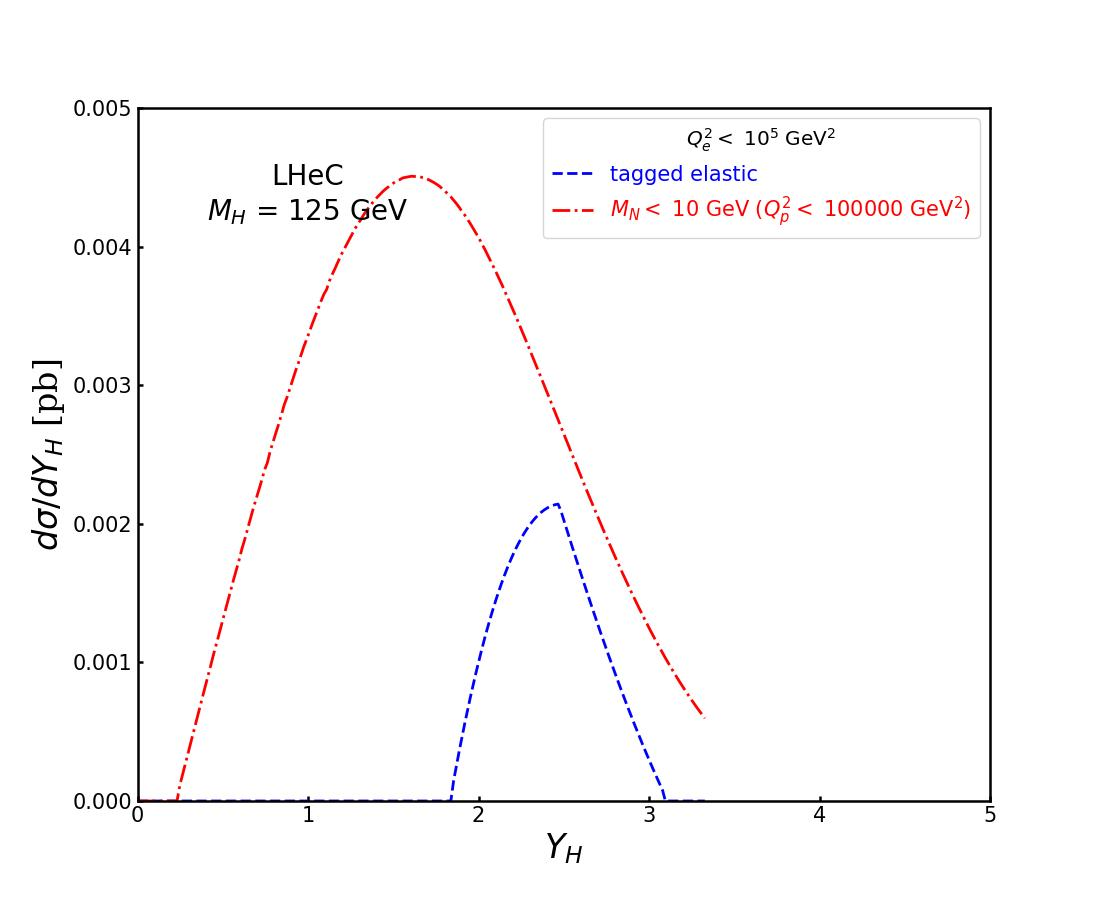
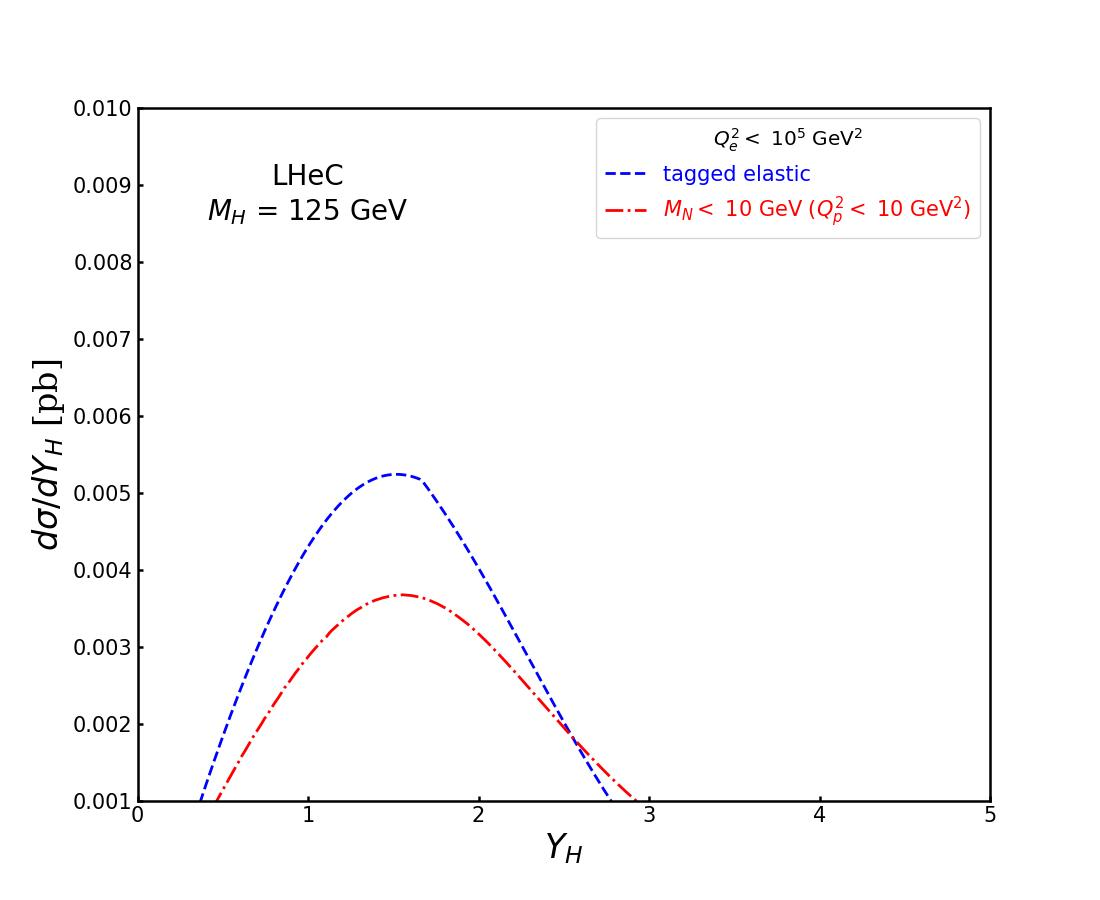
plots

diff --git a/dSigmadY_Final_Higgs_25April/dSigmadY_ep_Higgs_10_100000_100000_tagged_elastic.py b/dSigmadY_Final_Higgs_25April/dSigmadY_ep_Higgs_10_100000_100000_tagged_elastic.py
@@ -1,4 +1,4 @@
 wvalues =  (10.0, 100000.0, 100000.0, [0.0, 0.016556291390728478, 0.033112582781456956, 0.049668874172185434, 0.06622516556291391, 0.08278145695364239, 0.09933774834437087, 0.11589403973509935, 0.13245033112582782, 0.1490066225165563, 0.16556291390728478, 0.18211920529801326, 0.19867549668874174, 0.21523178807947022, 0.2317880794701987, 0.24834437086092717, 0.26490066225165565, 0.2814569536423841, 0.2980132450331126, 0.3145695364238411, 0.33112582781456956, 0.347682119205298, 0.3642384105960265, 0.380794701986755, 0.3973509933774835, 0.4139072847682119, 0.43046357615894043, 0.44701986754966894, 0.4635761589403974, 0.48013245033112584, 0.49668874172185434, 0.5132450331125828, 0.5298013245033113, 0.5463576158940397, 0.5629139072847682, 0.5794701986754968, 0.5960264900662252, 0.6125827814569537, 0.6291390728476822, 0.6456953642384107, 0.6622516556291391, 0.6788079470198676, 0.695364238410596, 0.7119205298013246, 0.728476821192053, 0.7450331125827815, 0.76158940397351, 0.7781456953642385, 0.794701986754967, 0.8112582781456954, 0.8278145695364238, 0.8443708609271524, 0.8609271523178809, 0.8774834437086093, 0.8940397350993379, 0.9105960264900663, 0.9271523178807948, 0.9437086092715232, 0.9602649006622517, 0.9768211920529802, 0.9933774834437087, 1.0099337748344372, 1.0264900662251657, 1.0430463576158941, 1.0596026490066226, 1.076158940397351, 1.0927152317880795, 1.109271523178808, 1.1258278145695364, 1.142384105960265, 1.1589403973509935, 1.175496688741722, 1.1920529801324504, 1.2086092715231789, 1.2251655629139073, 1.2417218543046358, 1.2582781456953644, 1.274834437086093, 1.2913907284768213, 1.3079470198675498, 1.3245033112582782, 1.3410596026490067, 1.3576158940397351, 1.3741721854304636, 1.390728476821192, 1.4072847682119207, 1.4238410596026492, 1.4403973509933776, 1.456953642384106, 1.4735099337748345, 1.490066225165563, 1.5066225165562914, 1.52317880794702, 1.5397350993377485, 1.556291390728477, 1.5728476821192054, 1.589403973509934, 1.6059602649006623, 1.6225165562913908, 1.6390728476821192, 1.6556291390728477, 1.6721854304635764, 1.6887417218543048, 1.7052980132450333, 1.7218543046357617, 1.7384105960264902, 1.7549668874172186, 1.771523178807947, 1.7880794701986757, 1.8046357615894042, 1.8211920529801326, 1.837748344370861, 1.8543046357615895, 1.870860927152318, 1.8874172185430464, 1.903973509933775, 1.9205298013245033, 1.937086092715232, 1.9536423841059605, 1.970198675496689, 1.9867549668874174, 2.003311258278146, 2.0198675496688745, 2.036423841059603, 2.0529801324503314, 2.06953642384106, 2.0860927152317883, 2.1026490066225167, 2.119205298013245, 2.1357615894039736, 2.152317880794702, 2.1688741721854305, 2.185430463576159, 2.2019867549668874, 2.218543046357616, 2.2350993377483444, 2.251655629139073, 2.2682119205298017, 2.28476821192053, 2.3013245033112586, 2.317880794701987, 2.3344370860927155, 2.350993377483444, 2.3675496688741724, 2.384105960264901, 2.4006622516556293, 2.4172185430463577, 2.433774834437086, 2.4503311258278146, 2.466887417218543, 2.4834437086092715, 2.5, 2.516556291390729, 2.5331125827814573, 2.549668874172186, 2.5662251655629142, 2.5827814569536427, 2.599337748344371, 2.6158940397350996, 2.632450331125828, 2.6490066225165565, 2.665562913907285, 2.6821192052980134, 2.698675496688742, 2.7152317880794703, 2.7317880794701987, 2.748344370860927, 2.7649006622516556, 2.781456953642384, 2.798013245033113, 2.8145695364238414, 2.83112582781457, 2.8476821192052983, 2.864238410596027, 2.8807947019867552, 2.8973509933774837, 2.913907284768212, 2.9304635761589406, 2.947019867549669, 2.9635761589403975, 2.980132450331126, 2.9966887417218544, 3.013245033112583, 3.0298013245033113, 3.04635761589404, 3.0629139072847686, 3.079470198675497, 3.0960264900662255, 3.112582781456954, 3.1291390728476824, 3.145695364238411, 3.1622516556291393, 3.178807947019868, 3.1953642384105962, 3.2119205298013247, 3.228476821192053, 3.2450331125827816, 3.26158940397351, 3.2781456953642385, 3.294701986754967, 3.3112582781456954, 3.3278145695364243, 3.3443708609271527, 3.360927152317881, 3.3774834437086096, 3.394039735099338, 3.4105960264900665, 3.427152317880795, 3.4437086092715234, 3.460264900662252, 3.4768211920529803, 3.493377483443709, 3.5099337748344372, 3.5264900662251657, 3.543046357615894, 3.5596026490066226, 3.5761589403973515, 3.59271523178808, 3.6092715231788084, 3.625827814569537, 3.6423841059602653, 3.6589403973509937, 3.675496688741722, 3.6920529801324506, 3.708609271523179, 3.7251655629139075, 3.741721854304636, 3.7582781456953644, 3.774834437086093, 3.7913907284768213, 3.80794701986755, 3.8245033112582782, 3.8410596026490067, 3.8576158940397356, 3.874172185430464, 3.8907284768211925, 3.907284768211921, 3.9238410596026494, 3.940397350993378, 3.9569536423841063, 3.9735099337748347, 3.990066225165563, 4.006622516556292, 4.02317880794702, 4.039735099337749, 4.056291390728477, 4.072847682119206, 4.089403973509934, 4.105960264900663, 4.122516556291391, 4.13907284768212, 4.155629139072848, 4.172185430463577, 4.188741721854305, 4.2052980132450335, 4.2218543046357615, 4.23841059602649, 4.254966887417219, 4.271523178807947, 4.288079470198676, 4.304635761589404, 4.321192052980133, 4.337748344370861, 4.35430463576159, 4.370860927152318, 4.387417218543047, 4.403973509933775, 4.420529801324504, 4.437086092715232, 4.453642384105961, 4.470198675496689, 4.486754966887418, 4.503311258278146, 4.5198675496688745, 4.536423841059603, 4.552980132450331, 4.56953642384106, 4.586092715231788, 4.602649006622517, 4.619205298013245, 4.635761589403974, 4.652317880794702, 4.668874172185431, 4.685430463576159, 4.701986754966888, 4.718543046357616, 4.735099337748345, 4.751655629139073, 4.768211920529802, 4.784768211920531, 4.801324503311259, 4.8178807947019875, 4.8344370860927155, 4.850993377483444, 4.867549668874172, 4.884105960264901, 4.900662251655629, 4.917218543046358, 4.933774834437086, 4.950331125827815, 4.966887417218543, 4.983443708609272, 5.0])
 inel = (10.0, 100000.0, 100000.0, [0.0, 0.0, 0.0, 0.0, 0.0, 0.0, 0.0, 0.0, 0.0, 0.0, 0.0, 0.0, 0.0, 0.0, 0.0, 0.00011400075828955112, 0.00019262169012425662, 0.00027155079654275354, 0.0003509836541604606, 0.00043011928414663517, 0.0005099255379869206, 0.0005902835254417737, 0.0006684231423198427, 0.000748536702706555, 0.0008256403947135332, 0.0009040465670312273, 0.0009826734535660017, 0.0010627902779646935, 0.0011366366979613132, 0.0012142008397811198, 0.0012902598817700524, 0.0013661978055065811, 0.0014429014794558005, 0.0015184191506121614, 0.001594369692715631, 0.0016681357137872477, 0.0017394152704436013, 0.0018204135182041325, 0.0018881053051275516, 0.001961519326123942, 0.002033508740146861, 0.0021103533654813593, 0.0021772011027015353, 0.0022462456116574153, 0.002313181997752284, 0.0023885504835097267, 0.0024402932185225283, 0.002522586223621444, 0.0025901351552023036, 0.002655020897043403, 0.002718290346135948, 0.0027876256362540613, 0.0028603522501346366, 0.0029142179766888784, 0.002976756743260501, 0.00304000734026279, 0.0031034047840866, 0.0031603595440006134, 0.0032205443496123344, 0.0032831228922633317, 0.003334210553725591, 0.0033917291240531033, 0.0034468513095967236, 0.003498781295685017, 0.0035528374034210146, 0.003605956122240228, 0.00365525013415284, 0.0036908293773595968, 0.0037527216335437315, 0.0038003155910601443, 0.003842934261817406, 0.0038879834505497705, 0.0039348802572145855, 0.003973424275803403, 0.004012498550475368, 0.004052151896631715, 0.004090159896585057, 0.004127105596976338, 0.0041624441727535775, 0.004191157043242801, 0.004225554149830411, 0.004257152142988477, 0.004283024236331197, 0.004310535971379489, 0.004336774529945413, 0.004357461563912606, 0.004377832680431733, 0.0043995007920636245, 0.004417137047319233, 0.0044330700295294005, 0.004448990661485914, 0.004462914583440454, 0.004475418389544419, 0.004484135883555742, 0.004495852592434806, 0.004499981702608827, 0.00450410923293955, 0.0045075290347018435, 0.004506120817272483, 0.004506700391374965, 0.004504764146057312, 0.0044974587493015, 0.004493792830321226, 0.00448367151981985, 0.004473500423942532, 0.004462208036610409, 0.004449408317860547, 0.004435270841073932, 0.004416975356655033, 0.004399136582508341, 0.004379681136028152, 0.004358701038543745, 0.00433429752031877, 0.004309595344486166, 0.0042825426290258204, 0.0042521174616845046, 0.004225582499908148, 0.004194453049216727, 0.004162436789213295, 0.004128385247515187, 0.004094834866180886, 0.004059427671911431, 0.004019819607777099, 0.003982206518538407, 0.003941403220332941, 0.003901091183325596, 0.003858715825583146, 0.003817099356438236, 0.0037724611140327463, 0.003729790506693604, 0.0036837936605030068, 0.003638558201020584, 0.0035912675911622784, 0.0035451021573910733, 0.0034983768785485734, 0.0034498303923507613, 0.0034012828733188598, 0.0033527213409642567, 0.00330320277521087, 0.003253427214313614, 0.003203736681301763, 0.0031536037499085485, 0.003103495452398508, 0.003052970291897036, 0.003002639650188313, 0.0029520707761992032, 0.0029014863404108666, 0.0028506791581387287, 0.002799839693750379, 0.002749207552011464, 0.002698269850071863, 0.0026479980266012394, 0.0025972700548644884, 0.0025466638127892697, 0.0024963674339011756, 0.002446345515560727, 0.0023964361146387326, 0.002346735834470061, 0.0022969304750910927, 0.0022473964315327453, 0.0021983230476269066, 0.002149661717477534, 0.002101022304981997, 0.002052680301108158, 0.0020047097184693005, 0.001957041331402762, 0.0019100677957843985, 0.0018634410047116434, 0.0018170837796567362, 0.0017710357124399707, 0.0017255667811680395, 0.0016803753943227455, 0.001635867167893766, 0.0015916875816886645, 0.0015477651152908938, 0.0015050076967275043, 0.0014621634361095225, 0.0014203820325729083, 0.0013786196870859348, 0.001337822023144624, 0.001297507525913672, 0.0012578129442828738, 0.0012185224783010673, 0.0011800086861551951, 0.001142133288361301, 0.0011049030185509598, 0.001067967600171153, 0.0010317653071180333, 0.0009965290538240309, 0.0009616541553600306, 0.0009275535079314117, 0.0008942646477729199, 0.0008615922131419698, 0.0008294597995976124, 0.000798088740253357, 0.000767238563970318, 0.0007371932615524273, 0.0007078240900587539, 0.0006791226888811671, 0.0006511728889148517, 0.0006235913317976977, 0.0005973437392180808, 0.0005713906779452317, 0.0005462046285270499, 0.0005216775018796853, 0.0004977263942942643, 0.0004746081382916912, 0.0004520105881222191, 0.0004303746936625222, 0.0004089975297462138, 0.0003886255686641666, 0.0003685260510511926, 0.00034965943908529747, 0.0003312015754814116, 0.0003132904986592007, 0.00029604137061524935, 0.0002794743102609861, 0.0002634593510078987, 0.0002481240348505471, 0.00023333193266626419, 0.00021914165348916275, 0.00020561488538207507, 0.0001926035698609056, 0.0001801766386964422, 0.00016828930542073906, 0.00015694178311099468, 0.00014614877063488715, 0.00013582842666416082, 0.0001260917293850866, 0.00011678365825848403, 0.00010802647710116919, 9.97017388501825e-05, 9.187203002323423e-05, 8.445203570614293e-05, 7.745626385246879e-05, 7.090216565171627e-05, 6.473450328519503e-05, 5.897750774355199e-05, 5.35724590881266e-05, 4.8566202580175456e-05, 4.387968277293176e-05, 3.955351587632485e-05, 3.5553255909205004e-05, 3.180704102287076e-05, 2.8404608150741183e-05, 2.5259068182811322e-05, 2.2380681584439698e-05, 1.9744804349842705e-05, 1.7356845391767967e-05, 1.5183258838909516e-05, 1.322220491066989e-05, 1.1463164451032917e-05, 9.879105976227625e-06, 8.467544867612067e-06, 7.2136496260033925e-06, 6.105907319705518e-06, 5.132260551831351e-06, 4.2819238004145536e-06, 3.5449454378396325e-06, 2.909037304548585e-06, 2.3646832622555825e-06, 1.9031047758969127e-06, 1.514412564935002e-06, 1.1902657915958025e-06, 9.236456238081579e-07, 7.055205955496864e-07, 5.305712097772018e-07, 3.9147605563354363e-07, 2.8312987356226146e-07, 2.0001961668759524e-07, 1.376261973306043e-07, 9.189409028353593e-08, 5.920662514317648e-08, 3.6636088973778345e-08, 2.159106506680303e-08, 1.1999260523789763e-08, 6.209006054459921e-09, 2.9409368996200158e-09, 1.240883805162086e-09, 4.506876017506718e-10, 1.3227594962256494e-10, 2.853028760434352e-11, 3.743378847867955e-12, 1.9567969042929495e-13, 0.0, 0.0, 0.0, 0.0, 0.0, 0.0, 0.0, 0.0, 0.0, 0.0, 0.0, 0.0, 0.0, 0.0, 0.0, 0.0, 0.0, 0.0, 0.0])
-elas = (10.0, 100000.0, 100000.0, [0.0, 0.0, 0.0, 0.0, 0.0, 0.0, 0.0, 0.0, 0.0, 0.0, 0.0, 0.0, 0.0, 0.0, 0.0, 0.0, 0.0, 0.0, 0.0, 0.0, 0.0, 0.0, 0.0, 0.0, 0.0, 0.0, 0.0, 0.0, 0.0, 0.0, 0.0, 0.0, 0.0, 0.0, 0.0, 0.0, 0.0, 0.0, 0.0, 0.0, 0.0, 0.0, 0.0, 0.0, 0.0, 0.0, 0.0, 0.0, 0.0, 0.0, 0.0, 0.0, 0.0, 0.0, 0.0, 0.0, 0.0, 0.0, 0.0, 0.0, 0.0, 0.0, 0.0, 0.0, 0.0, 0.0, 0.0, 0.0, 0.0, 0.0, 0.0, 0.0, 0.0, 0.0, 0.0, 0.0, 0.0, 0.0, 0.0, 0.0, 0.0, 0.0, 0.0, 0.0, 0.0, 0.0, 0.0, 0.0, 0.0, 0.0, 0.0, 0.0, 0.0, 0.0, 0.0, 0.0, 0.0, 0.0, 0.0, 0.0, 0.0, 0.0, 0.0, 0.0, 0.0, 0.0, 0.0, 0.0, 0.0, 0.0, 0.0, 0.0, 0.00014836356833176906, 0.0002577443632253996, 0.00036392215222709495, 0.00046689194074164456, 0.0005666502842222281, 0.0006631952920623457, 0.0007565267565481533, 0.0008466461426266741, 0.0009335566170720019, 0.0010172631471086846, 0.0010977729224573788, 0.0011750933621122994, 0.0012492362265668305, 0.0013202135948263685, 0.001388039919044898, 0.001452731663090404, 0.0015143073191629037, 0.0015727874416411052, 0.0016281946597601464, 0.0016805536939813737, 0.0017298913633200371, 0.0017762365741049552, 0.0018196203462752393, 0.0018600757846304757, 0.001897638032485984, 0.0019323442893832501, 0.0019642337344310265, 0.0019933474809990287, 0.0020197285521288944, 0.002043421773795868, 0.002064473704842601, 0.0020829325664335203, 0.0020988481130141384, 0.0021122714808287117, 0.0021232551921443943, 0.0021318529124816766, 0.002138119307293614, 0.002142109936317974, 0.0020927858304762813, 0.0020275613773907335, 0.0019626805262601232, 0.0018981652986312977, 0.00183398940172877, 0.0017703161471128712, 0.0017070227641928087, 0.0016441751764367147, 0.0015817943520818206, 0.0015198955868509902, 0.0014584967967141745, 0.0013976143519878895, 0.0013372639398982061, 0.0012774605513779262, 0.0012182184905312112, 0.0011595514067687237, 0.0011014721171576875, 0.0010439932231767022, 0.0009871261127253601, 0.0009308818565012081, 0.0008752708207314269, 0.000820302748100901, 0.0007659868064936002, 0.0007123314874851476, 0.0006593447547549294, 0.0006070339760534977, 0.0005554059666413304, 0.0005044669709941916, 0.0004542227382713182, 0.000404678444329004, 0.00035583878805822835, 0.0003077079658519594, 0.00026028969295231665, 0.000213587219521776, 0.00016760334204382613, 0.00012234041983201092, 7.780039305542613e-05, 0.0, 0.0, 0.0, 0.0, 0.0, 0.0, 0.0, 0.0, 0.0, 0.0, 0.0, 0.0, 0.0, 0.0, 0.0, 0.0, 0.0, 0.0, 0.0, 0.0, 0.0, 0.0, 0.0, 0.0, 0.0, 0.0, 0.0, 0.0, 0.0, 0.0, 0.0, 0.0, 0.0, 0.0, 0.0, 0.0, 0.0, 0.0, 0.0, 0.0, 0.0, 0.0, 0.0, 0.0, 0.0, 0.0, 0.0, 0.0, 0.0, 0.0, 0.0, 0.0, 0.0, 0.0, 0.0, 0.0, 0.0, 0.0, 0.0, 0.0, 0.0, 0.0, 0.0, 0.0, 0.0, 0.0, 0.0, 0.0, 0.0, 0.0, 0.0, 0.0, 0.0, 0.0, 0.0, 0.0, 0.0, 0.0, 0.0, 0.0, 0.0, 0.0, 0.0, 0.0, 0.0, 0.0, 0.0, 0.0, 0.0, 0.0, 0.0, 0.0, 0.0, 0.0, 0.0, 0.0, 0.0, 0.0, 0.0, 0.0, 0.0, 0.0, 0.0, 0.0, 0.0, 0.0, 0.0, 0.0, 0.0, 0.0, 0.0, 0.0, 0.0, 0.0, 0.0, 0.0])
+elas = (10.0, 100000.0, 100000.0, [0.0, 0.0, 0.0, 0.0, 0.0, 0.0, 0.0, 0.0, 0.0, 0.0, 0.0, 0.0, 0.0, 0.0, 0.0, 0.00016859859601241447, 0.00028351359069615615, 0.00039866226664336314, 0.0005134649952033883, 0.0006276252733981667, 0.0007409694356933475, 0.0008533877016560211, 0.0009648071201573706, 0.0010751774829323775, 0.0011844631876809751, 0.0012926382574155431, 0.0013996831478414848, 0.0015055825838903006, 0.0016103241037276903, 0.0017138970134387217, 0.0018162916359305255, 0.0019174987738181358, 0.002017509333498685, 0.002116314029823003, 0.0022139031783205954, 0.002310266560871911, 0.002405393312624862, 0.0024992718648966534, 0.002591889897392609, 0.002683234336332159, 0.0027732913164692694, 0.002862046246053188, 0.002949483744279648, 0.0030355877733535454, 0.0031203416314760034, 0.0032037279240381676, 0.0032857287111432614, 0.0033663255094379435, 0.003445499332413095, 0.003523230964987848, 0.003599500061646233, 0.003674287051495868, 0.0037475713682300926, 0.0038193324266838163, 0.003889549444970561, 0.003958201616537631, 0.00402526805138344, 0.004090727893674925, 0.004154560389235776, 0.004216744888388761, 0.004277260980599953, 0.004336088489484109, 0.00439320757983612, 0.004448598767474622, 0.00450224303152958, 0.004554121820405754, 0.004604217142838266, 0.004652511614606482, 0.004698988506771432, 0.00474363181961293, 0.004786426314441858, 0.004827357594538075, 0.00486641212293403, 0.004903577305254173, 0.004938841587007665, 0.004972194210774339, 0.005003625839448584, 0.005033128066078857, 0.005060693588910719, 0.005086316473512834, 0.005109991921555057, 0.00513171650759867, 0.005151488013415742, 0.005169305648298235, 0.005185169965815585, 0.0051990829171040505, 0.005211047879143402, 0.005221069643238769, 0.005229154436757962, 0.005235309939154992, 0.005239545271269983, 0.005241870968428043, 0.005242298970204672, 0.005240842694816771, 0.005237516841437875, 0.005232337487136882, 0.0052253220253891345, 0.005216489091152245, 0.005205858506048713, 0.005193451284101963, 0.005179289490805667, 0.00515220469029562, 0.005102545388997192, 0.00505146193771548, 0.004999467310202538, 0.0049467124342793805, 0.00489325770377892, 0.004839128897832827, 0.004784336885290453, 0.004728885979057727, 0.004672778486250131, 0.00461601656236385, 0.004558603639864658, 0.004500545004450893, 0.004441848105665459, 0.004382522767543803, 0.004322581078528777, 0.004262037397880745, 0.004200908264267792, 0.004139212159414164, 0.004076969510746904, 0.004014202319033681, 0.003950934172974808, 0.0038871900113318426, 0.0038229959547512057, 0.0037583792262988916, 0.003693367864837452, 0.003627990743701326, 0.003562277333107803, 0.003496257652439282, 0.0034299620542331084, 0.003363418329713565, 0.0032966660695515045, 0.003229747332556181, 0.003162636569459754, 0.0030954241235542214, 0.0030281209621684183, 0.002960757663970977, 0.0028933645806087467, 0.002825971541719919, 0.002758608326760487, 0.002691304085789222, 0.002624087565132927, 0.0025569870077308105, 0.0024900301572811836, 0.0024232441449883006, 0.0023566555779587304, 0.002290290445370668, 0.002224174041952562, 0.002158331229772758, 0.0020927858304762813, 0.0020275613773907335, 0.0019626805262601232, 0.0018981652986312977, 0.00183398940172877, 0.0017703161471128712, 0.0017070227641928087, 0.0016441751764367147, 0.0015817943520818206, 0.0015198955868509902, 0.0014584967967141745, 0.0013976143519878895, 0.0013372639398982061, 0.0012774605513779262, 0.0012182184905312112, 0.0011595514067687237, 0.0011014721171576875, 0.0010439932231767022, 0.0009871261127253601, 0.0009308818565012081, 0.0008752708207314269, 0.000820302748100901, 0.0007659868064936002, 0.0007123314874851476, 0.0006593447547549294, 0.0006070339760534977, 0.0005554059666413304, 0.0005044669709941916, 0.0004542227382713182, 0.000404678444329004, 0.00035583878805822835, 0.0003077079658519594, 0.00026028969295231665, 0.000213587219521776, 0.00016760334204382613, 0.00012234041983201092, 7.780039305542613e-05, 0.0, 0.0, 0.0, 0.0, 0.0, 0.0, 0.0, 0.0, 0.0, 0.0, 0.0, 0.0, 0.0, 0.0, 0.0, 0.0, 0.0, 0.0, 0.0, 0.0, 0.0, 0.0, 0.0, 0.0, 0.0, 0.0, 0.0, 0.0, 0.0, 0.0, 0.0, 0.0, 0.0, 0.0, 0.0, 0.0, 0.0, 0.0, 0.0, 0.0, 0.0, 0.0, 0.0, 0.0, 0.0, 0.0, 0.0, 0.0, 0.0, 0.0, 0.0, 0.0, 0.0, 0.0, 0.0, 0.0, 0.0, 0.0, 0.0, 0.0, 0.0, 0.0, 0.0, 0.0, 0.0, 0.0, 0.0, 0.0, 0.0, 0.0, 0.0, 0.0, 0.0, 0.0, 0.0, 0.0, 0.0, 0.0, 0.0, 0.0, 0.0, 0.0, 0.0, 0.0, 0.0, 0.0, 0.0, 0.0, 0.0, 0.0, 0.0, 0.0, 0.0, 0.0, 0.0, 0.0, 0.0, 0.0, 0.0, 0.0, 0.0, 0.0, 0.0, 0.0, 0.0, 0.0, 0.0, 0.0, 0.0, 0.0, 0.0, 0.0, 0.0, 0.0, 0.0, 0.0])
 

diff --git a/dSigmadY_Final_Higgs_25April/dSigmadY_ep_Higgs_10_100000_10_tagged_elastic.py b/dSigmadY_Final_Higgs_25April/dSigmadY_ep_Higgs_10_100000_10_tagged_elastic.py
@@ -1,0 +1,4 @@
+wvalues =  (10.0, 100000.0, 10.0, [0.0, 0.016556291390728478, 0.033112582781456956, 0.049668874172185434, 0.06622516556291391, 0.08278145695364239, 0.09933774834437087, 0.11589403973509935, 0.13245033112582782, 0.1490066225165563, 0.16556291390728478, 0.18211920529801326, 0.19867549668874174, 0.21523178807947022, 0.2317880794701987, 0.24834437086092717, 0.26490066225165565, 0.2814569536423841, 0.2980132450331126, 0.3145695364238411, 0.33112582781456956, 0.347682119205298, 0.3642384105960265, 0.380794701986755, 0.3973509933774835, 0.4139072847682119, 0.43046357615894043, 0.44701986754966894, 0.4635761589403974, 0.48013245033112584, 0.49668874172185434, 0.5132450331125828, 0.5298013245033113, 0.5463576158940397, 0.5629139072847682, 0.5794701986754968, 0.5960264900662252, 0.6125827814569537, 0.6291390728476822, 0.6456953642384107, 0.6622516556291391, 0.6788079470198676, 0.695364238410596, 0.7119205298013246, 0.728476821192053, 0.7450331125827815, 0.76158940397351, 0.7781456953642385, 0.794701986754967, 0.8112582781456954, 0.8278145695364238, 0.8443708609271524, 0.8609271523178809, 0.8774834437086093, 0.8940397350993379, 0.9105960264900663, 0.9271523178807948, 0.9437086092715232, 0.9602649006622517, 0.9768211920529802, 0.9933774834437087, 1.0099337748344372, 1.0264900662251657, 1.0430463576158941, 1.0596026490066226, 1.076158940397351, 1.0927152317880795, 1.109271523178808, 1.1258278145695364, 1.142384105960265, 1.1589403973509935, 1.175496688741722, 1.1920529801324504, 1.2086092715231789, 1.2251655629139073, 1.2417218543046358, 1.2582781456953644, 1.274834437086093, 1.2913907284768213, 1.3079470198675498, 1.3245033112582782, 1.3410596026490067, 1.3576158940397351, 1.3741721854304636, 1.390728476821192, 1.4072847682119207, 1.4238410596026492, 1.4403973509933776, 1.456953642384106, 1.4735099337748345, 1.490066225165563, 1.5066225165562914, 1.52317880794702, 1.5397350993377485, 1.556291390728477, 1.5728476821192054, 1.589403973509934, 1.6059602649006623, 1.6225165562913908, 1.6390728476821192, 1.6556291390728477, 1.6721854304635764, 1.6887417218543048, 1.7052980132450333, 1.7218543046357617, 1.7384105960264902, 1.7549668874172186, 1.771523178807947, 1.7880794701986757, 1.8046357615894042, 1.8211920529801326, 1.837748344370861, 1.8543046357615895, 1.870860927152318, 1.8874172185430464, 1.903973509933775, 1.9205298013245033, 1.937086092715232, 1.9536423841059605, 1.970198675496689, 1.9867549668874174, 2.003311258278146, 2.0198675496688745, 2.036423841059603, 2.0529801324503314, 2.06953642384106, 2.0860927152317883, 2.1026490066225167, 2.119205298013245, 2.1357615894039736, 2.152317880794702, 2.1688741721854305, 2.185430463576159, 2.2019867549668874, 2.218543046357616, 2.2350993377483444, 2.251655629139073, 2.2682119205298017, 2.28476821192053, 2.3013245033112586, 2.317880794701987, 2.3344370860927155, 2.350993377483444, 2.3675496688741724, 2.384105960264901, 2.4006622516556293, 2.4172185430463577, 2.433774834437086, 2.4503311258278146, 2.466887417218543, 2.4834437086092715, 2.5, 2.516556291390729, 2.5331125827814573, 2.549668874172186, 2.5662251655629142, 2.5827814569536427, 2.599337748344371, 2.6158940397350996, 2.632450331125828, 2.6490066225165565, 2.665562913907285, 2.6821192052980134, 2.698675496688742, 2.7152317880794703, 2.7317880794701987, 2.748344370860927, 2.7649006622516556, 2.781456953642384, 2.798013245033113, 2.8145695364238414, 2.83112582781457, 2.8476821192052983, 2.864238410596027, 2.8807947019867552, 2.8973509933774837, 2.913907284768212, 2.9304635761589406, 2.947019867549669, 2.9635761589403975, 2.980132450331126, 2.9966887417218544, 3.013245033112583, 3.0298013245033113, 3.04635761589404, 3.0629139072847686, 3.079470198675497, 3.0960264900662255, 3.112582781456954, 3.1291390728476824, 3.145695364238411, 3.1622516556291393, 3.178807947019868, 3.1953642384105962, 3.2119205298013247, 3.228476821192053, 3.2450331125827816, 3.26158940397351, 3.2781456953642385, 3.294701986754967, 3.3112582781456954, 3.3278145695364243, 3.3443708609271527, 3.360927152317881, 3.3774834437086096, 3.394039735099338, 3.4105960264900665, 3.427152317880795, 3.4437086092715234, 3.460264900662252, 3.4768211920529803, 3.493377483443709, 3.5099337748344372, 3.5264900662251657, 3.543046357615894, 3.5596026490066226, 3.5761589403973515, 3.59271523178808, 3.6092715231788084, 3.625827814569537, 3.6423841059602653, 3.6589403973509937, 3.675496688741722, 3.6920529801324506, 3.708609271523179, 3.7251655629139075, 3.741721854304636, 3.7582781456953644, 3.774834437086093, 3.7913907284768213, 3.80794701986755, 3.8245033112582782, 3.8410596026490067, 3.8576158940397356, 3.874172185430464, 3.8907284768211925, 3.907284768211921, 3.9238410596026494, 3.940397350993378, 3.9569536423841063, 3.9735099337748347, 3.990066225165563, 4.006622516556292, 4.02317880794702, 4.039735099337749, 4.056291390728477, 4.072847682119206, 4.089403973509934, 4.105960264900663, 4.122516556291391, 4.13907284768212, 4.155629139072848, 4.172185430463577, 4.188741721854305, 4.2052980132450335, 4.2218543046357615, 4.23841059602649, 4.254966887417219, 4.271523178807947, 4.288079470198676, 4.304635761589404, 4.321192052980133, 4.337748344370861, 4.35430463576159, 4.370860927152318, 4.387417218543047, 4.403973509933775, 4.420529801324504, 4.437086092715232, 4.453642384105961, 4.470198675496689, 4.486754966887418, 4.503311258278146, 4.5198675496688745, 4.536423841059603, 4.552980132450331, 4.56953642384106, 4.586092715231788, 4.602649006622517, 4.619205298013245, 4.635761589403974, 4.652317880794702, 4.668874172185431, 4.685430463576159, 4.701986754966888, 4.718543046357616, 4.735099337748345, 4.751655629139073, 4.768211920529802, 4.784768211920531, 4.801324503311259, 4.8178807947019875, 4.8344370860927155, 4.850993377483444, 4.867549668874172, 4.884105960264901, 4.900662251655629, 4.917218543046358, 4.933774834437086, 4.950331125827815, 4.966887417218543, 4.983443708609272, 5.0])
+inel = (10.0, 100000.0, 10.0, [0.0, 0.0, 0.0, 0.0, 0.0, 0.0, 0.0, 0.0, 0.0, 0.0, 0.0, 0.0, 0.0, 0.0, 0.0, 0.00010075947388859459, 0.00017018693847825354, 0.0002397544100159769, 0.00030965589995488, 0.00037924847266351835, 0.000449340712057472, 0.0005188975614385007, 0.000588622185800532, 0.0006584532144948584, 0.0007258875839850146, 0.000794398465319751, 0.0008630161482655642, 0.0009328678764032023, 0.0009971074460916809, 0.0010645470273687714, 0.0011305197890548067, 0.0011962943771142726, 0.0012626500715416397, 0.0013278512955128953, 0.0013933291860967355, 0.0014568204262845248, 0.001518033721806771, 0.0015875539050328347, 0.0016454819030918312, 0.0017081948495204639, 0.0017695831891401676, 0.0018351010968448763, 0.0018918985403937657, 0.0019504695408316295, 0.0020070301123935102, 0.002070736761517259, 0.002114230516774218, 0.0021834860928457082, 0.0022402107487329405, 0.0022944293277437655, 0.0023472056288176145, 0.002405009065188841, 0.0024655759018542356, 0.0025098316695471084, 0.002561434556736653, 0.0026148544127341804, 0.0026654967125055193, 0.0027119898961288, 0.0027610253573425317, 0.002811814726167665, 0.002852978325254416, 0.002899342225397238, 0.002943344064455907, 0.0029848105466274704, 0.0030277144404875196, 0.0030697031242249554, 0.0031084413190353983, 0.003135505646129556, 0.0031841309590707584, 0.0032209132879311604, 0.0032534650465190244, 0.003287681611041761, 0.0033232503906584607, 0.003352081139637046, 0.0033810139948505158, 0.0034100234345304614, 0.0034387129611843227, 0.0034637997617607843, 0.003488843851020052, 0.0035085341480541967, 0.0035319571092072557, 0.0035536099866378453, 0.0035697165273000137, 0.0035875947061503625, 0.0036043967354375504, 0.003615908875658832, 0.003627251212501484, 0.003639926125011659, 0.0036479742265209275, 0.003656377662071295, 0.003662570550001455, 0.003668923384874846, 0.0036727792405580775, 0.003673987427233884, 0.0036780128298570395, 0.0036744550615179484, 0.003671448542402905, 0.0036683235195979283, 0.003661694155919238, 0.003655792740915742, 0.0036472254307736065, 0.003637463903952595, 0.0036263705663557187, 0.003612306342278734, 0.0035977622259400523, 0.003580890436278522, 0.0035661170536077868, 0.003546916302326327, 0.0035268855323997597, 0.0035070691442749915, 0.0034847554179849877, 0.003460745853539972, 0.0034348414503331762, 0.0034092964380304978, 0.003381843058933688, 0.0033527740598064196, 0.0033249832042183147, 0.003296699773147649, 0.003262431546012731, 0.003232256147380293, 0.0031993945852128295, 0.0031646932851336225, 0.0031298437780630755, 0.0030940059244557888, 0.0030573498256571798, 0.0030206942279640886, 0.002981969302457927, 0.0029440040546856415, 0.0029056783240167063, 0.002866345032287146, 0.002826313213160081, 0.002786038991682695, 0.002746108164173855, 0.0027049324786443253, 0.002663724926328888, 0.0026220039699037688, 0.002580339464264535, 0.002538960623849888, 0.0024967389378016793, 0.0024549378063892795, 0.0024131924579270337, 0.002370990673793974, 0.0023289512674572934, 0.002286956969841421, 0.0022449819920108156, 0.002203112581345044, 0.0021615253310328865, 0.002119778572663209, 0.0020780167247230136, 0.0020366086688825952, 0.001995065403050088, 0.0019541488439093653, 0.0019130760986157602, 0.0018721845241620092, 0.0018316565536555917, 0.0017914330202730957, 0.0017514457303924019, 0.0017114113993121002, 0.0016718069225626438, 0.0016326357397902012, 0.0015937643828241124, 0.0015552321557648608, 0.0015169158362452607, 0.0014787202320800377, 0.0014415764793861434, 0.0014040934045486315, 0.0013673635908949605, 0.001330975543373445, 0.001294939073988757, 0.0012594382480729, 0.0012243074452938792, 0.0011897234249430514, 0.0011553944508133627, 0.0011215936625549835, 0.00108813710235392, 0.001055622717414783, 0.0010231762874355857, 0.0009913788555159992, 0.0009599172319164227, 0.0009291795861164639, 0.0008989078743908342, 0.0008691545639260039, 0.0008398640266155309, 0.0008112141412740278, 0.0007831656753326508, 0.0007554954772333389, 0.0007283388597711071, 0.0007017416871795911, 0.0006758781612389382, 0.0006503791229415828, 0.0006255042183939465, 0.0006012559914675864, 0.0005774754048830421, 0.0005544057360865421, 0.0005315998941339689, 0.0005096898037846215, 0.0004881584187458578, 0.00046713117782223965, 0.000446695607386088, 0.00042689782314409236, 0.0004076673905567001, 0.00038888061454685923, 0.00037072671595740175, 0.00035310846364744176, 0.00033603310076047246, 0.00031947199277478284, 0.0003034462966096746, 0.0002878829810208066, 0.00027299396657608666, 0.0002584905813784973, 0.00024455020650413503, 0.00023111179188194662, 0.00021820583346168247, 0.00020566729210161173, 0.00019375320511895585, 0.00018227490481340097, 0.00017128220122414407, 0.00016071318160998407, 0.00015058561846355086, 0.0001409272585433178, 0.0001317026697121063, 0.0001228872853559894, 0.00011451791476388437, 0.00010655258959611095, 9.89511689213604e-05, 9.175689775053677e-05, 8.494612350962772e-05, 7.849664901236657e-05, 7.238574130035933e-05, 6.662873306203965e-05, 6.121531866501841e-05, 5.6116374464678994e-05, 5.133783972327172e-05, 4.686246871356551e-05, 4.2679080016665104e-05, 3.875803662661125e-05, 3.511359731692289e-05, 3.1728481301882164e-05, 2.8587099787761075e-05, 2.5681228625878714e-05, 2.2999771302739117e-05, 2.0532247871579262e-05, 1.8261787886704416e-05, 1.6189449479932668e-05, 1.4292002000009783e-05, 1.2570628913616714e-05, 1.101149124917139e-05, 9.600803282558134e-06, 8.33124980028382e-06, 7.190455210322812e-06, 6.1771357279806755e-06, 5.2706939495545975e-06, 4.471374227453607e-06, 3.7691469514735492e-06, 3.154493348450345e-06, 2.6206380509725993e-06, 2.1567972798937115e-06, 1.7606202529616324e-06, 1.4224677369058626e-06, 1.1375958491868326e-06, 8.986294226678866e-07, 7.009655045662173e-07, 5.389305157012318e-07, 4.078015230956262e-07, 3.030550833198893e-07, 2.2068578402487323e-07, 1.5705805623695074e-07, 1.0884926143945684e-07, 7.316655808290342e-08, 4.7427518448456146e-08, 2.9441133555573322e-08, 1.7345443508564428e-08, 9.572118963683488e-09, 4.859340820638184e-09, 2.2028975203958068e-09, 8.544327257780541e-10, 2.5890930669778665e-10, 5.024552201435859e-11, 0.0, 0.0, 0.0, 0.0, 0.0, 0.0, 0.0, 0.0, 0.0, 0.0, 0.0, 0.0, 0.0, 0.0, 0.0, 0.0, 0.0, 0.0, 0.0, 0.0, 0.0, 0.0, 0.0, 0.0, 0.0])
+elas = (10.0, 100000.0, 10.0, [0.0, 0.0, 0.0, 0.0, 0.0, 0.0, 0.0, 0.0, 0.0, 0.0, 0.0, 0.0, 0.0, 0.0, 0.0, 0.0001685977321179722, 0.0002835121264949108, 0.0003986601913545111, 0.0005134623008340677, 0.0006276219533381389, 0.0007409654841069515, 0.0008533831131659589, 0.0009648018896619416, 0.0010751716054919823, 0.0011844566584446237, 0.001292631071571835, 0.001399675300585329, 0.0015055740704003828, 0.0016103149191511897, 0.0017138871528813362, 0.0018162810944503706, 0.0019174875464224737, 0.002017497415142705, 0.002116301415410268, 0.00221388986270475, 0.002310252538859262, 0.0024053785789777673, 0.0024992564143374195, 0.002591873724607866, 0.0026832174359774667, 0.002773273683174208, 0.0028620278744262823, 0.0029494646289140226, 0.003035567908832438, 0.003120321012375937, 0.0032037065449383277, 0.0032857065666282654, 0.003366302594104182, 0.003445475640872581, 0.0035232064918895704, 0.003599474801634283, 0.0036742609992779043, 0.003747544518543465, 0.003819304774310389, 0.003889520984742115, 0.003958172343341114, 0.00402523796016634, 0.004090696979469957, 0.00415452864708827, 0.00421671231347871, 0.004277227568169176, 0.004336054234860878, 0.004393172478440742, 0.004448562814823009, 0.004502206223241496, 0.004554084152206558, 0.004604178610565073, 0.0046524722142408555, 0.004698948234335481, 0.0047435906713583255, 0.0047863842866619315, 0.004827314683726383, 0.00486636832570521, 0.004903532618370012, 0.004938796007381211, 0.004972147735478096, 0.005003578465714609, 0.005033079791307251, 0.005060644410675729, 0.005086266389563565, 0.005109940929824157, 0.005131664606204778, 0.005151435200672955, 0.005169251922715867, 0.005185115326106439, 0.005199027362188751, 0.005210991408155305, 0.005221012255529263, 0.005229096131901517, 0.0052352507169540295, 0.005239485131759493, 0.005241809911881965, 0.005242236997165863, 0.005240779805997054, 0.0052374530378801335, 0.005232272770115644, 0.005225256396440435, 0.005216422552078892, 0.005205791058926092, 0.005193382931278891, 0.005179220234911358, 0.005152134869140937, 0.0051024756556698175, 0.00505139232650537, 0.004999397841127132, 0.004946643123538073, 0.004893188566353398, 0.004839059948506218, 0.0047842681390767566, 0.004728817451442703, 0.004672710193248786, 0.0046159485205666565, 0.004558535866421117, 0.0045004775170343035, 0.004441780922446074, 0.004382455907113857, 0.004322514559867275, 0.004261971240291307, 0.004200842487343285, 0.0041391467829600005, 0.004076904554747441, 0.004014137803604704, 0.003950870118317716, 0.0038871264376929464, 0.0038229328823840155, 0.00375831667542523, 0.003693305855624767, 0.0036279292962188786, 0.0035622164673079233, 0.0034961973881287205, 0.0034299024110518747, 0.0033633593271955313, 0.003296607726773027, 0.0032296896680297526, 0.0031625796031251236, 0.0030953678733769917, 0.0030280654463795066, 0.0029607029005741677, 0.0028933105872855024, 0.0028259183358735887, 0.0027585559254880787, 0.002691252505881904, 0.0026240368230694483, 0.0025569371196736018, 0.002489981139072391, 0.0024231960121489297, 0.002356608345685067, 0.002290244128533506, 0.0022241286550987306, 0.0021582867871160673, 0.002092742345920114, 0.002027518864501472, 0.0019626389982849626, 0.0018981247684956599, 0.001833949883453002, 0.0017702776501602989, 0.0017069853019512707, 0.0016441387605940119, 0.00158175899394329, 0.001519861297490352, 0.001458463586875455, 0.0013975822321242058, 0.0013372329201597046, 0.001277430641625729, 0.0012181897003377834, 0.0011595237454246586, 0.0011014455936752363, 0.0010439678462833306, 0.0009871018908840037, 0.0009308587979043906, 0.0008752489333073229, 0.0008202820395173234, 0.0007659672841608499, 0.0007123131585622261, 0.0006593276261516546, 0.000607018054435429, 0.0005553912584315505, 0.0005044534823803659, 0.00045421047520648, 0.00040466741253720784, 0.00035582899303726275, 0.00030769941287718425, 0.0002602823870802353, 0.00021358116559350244, 0.00016759854468858834, 0.00012233688347056205, 7.77981219031922e-05, 0.0, 0.0, 0.0, 0.0, 0.0, 0.0, 0.0, 0.0, 0.0, 0.0, 0.0, 0.0, 0.0, 0.0, 0.0, 0.0, 0.0, 0.0, 0.0, 0.0, 0.0, 0.0, 0.0, 0.0, 0.0, 0.0, 0.0, 0.0, 0.0, 0.0, 0.0, 0.0, 0.0, 0.0, 0.0, 0.0, 0.0, 0.0, 0.0, 0.0, 0.0, 0.0, 0.0, 0.0, 0.0, 0.0, 0.0, 0.0, 0.0, 0.0, 0.0, 0.0, 0.0, 0.0, 0.0, 0.0, 0.0, 0.0, 0.0, 0.0, 0.0, 0.0, 0.0, 0.0, 0.0, 0.0, 0.0, 0.0, 0.0, 0.0, 0.0, 0.0, 0.0, 0.0, 0.0, 0.0, 0.0, 0.0, 0.0, 0.0, 0.0, 0.0, 0.0, 0.0, 0.0, 0.0, 0.0, 0.0, 0.0, 0.0, 0.0, 0.0, 0.0, 0.0, 0.0, 0.0, 0.0, 0.0, 0.0, 0.0, 0.0, 0.0, 0.0, 0.0, 0.0, 0.0, 0.0, 0.0, 0.0, 0.0, 0.0, 0.0, 0.0, 0.0, 0.0, 0.0])
+

diff --git a/dSigmadY_Final_Higgs_25April/Plot_Hamzeh_Final_Hadi.py b/dSigmadY_Final_Higgs_25April/Plot_Hamzeh_Final_Hadi.py
@@ -29,11 +29,11 @@ sys.path.append('./values')
 # from syy_1_3_3_0804 import *
 # from syy_1_3_4_0805 import *
 # from syy_1_4_4_0907 import *
-from dSigmadY_ep_Higgs_10_100000_100000_tagged_elastic import *
+from dSigmadY_ep_Higgs_10_100000_10_tagged_elastic import *
 
 fig, ax = plt.subplots(figsize = (11.0, 9.0))
 ax.set_xlim(0.0, 5.0)
-ax.set_ylim(0.0, 0.005)
+ax.set_ylim(0.001, 0.01)
 
 inel_label = ('$M_N<$ ${{{:g}}}$ GeV').format(inel[0]) + (' ($Q^2_p<$ ${{{:g}}}$ GeV$^2$)').format(inel[2])
 title_label = ('$Q^2_e<$ ${{{:g}}}^{{{:g}}}$ GeV$^2$').format(10,np.log10(inel[1]))
